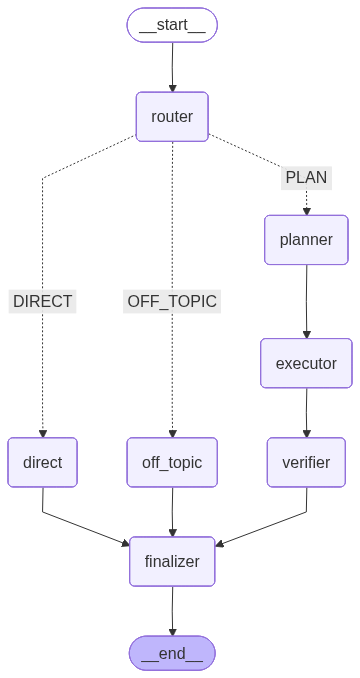
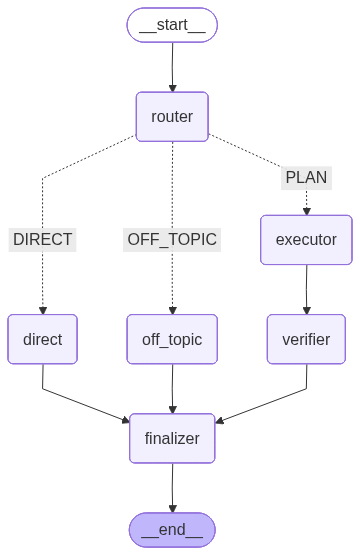
switched to claude haiku for the direct node, as it does not require either multi step work, major reasoning, or calling external tools

diff --git a/app/nodes/executor.py b/app/nodes/executor.py
@@ -1,26 +1,98 @@
 from __future__ import annotations
 
+# from langchain.agents import create_agent
+# from langchain_core.messages import ToolMessage
+# from app.infrastructure.llm import get_chat_model
+# from app.tools.tools import TRAVEL_TOOLS
+
+# EXECUTOR_SYSTEM = """
+# You are an execution agent for a travel assistant.
+# - the conversation so far (messages)
+# - a plan (list of steps)
+
+# Execute the plan in order.
+# Use tools when needed for factual data.
+# Be explicit about what came from tools vs what is reasoning.
+# When you finish, write a complete, engaging user-facing answer.
+
+# Do not show the plan unless the user asked for it.
+# """.strip()
+
+
+# # Single cached agent instance
+# _AGENT = create_agent(
+#     model=get_chat_model(),
+#     tools=TRAVEL_TOOLS,
+#     system_prompt=EXECUTOR_SYSTEM,
+# )
+
+
+# def executor_node(state: dict) -> dict:
+#     plan = state.get("plan") or []
+#     plan_block = "\n".join(str(x) for x in plan)
+
+#     exec_input = (
+#         "Execute the task for the user.\n\n"
+#         f"Plan:\n{plan_block}\n"
+#     )
+
+#     result = _AGENT.invoke(                                 
+#         {
+#             "messages": state["messages"]
+#             + [{"role": "user", "content": exec_input}]
+#         }
+#     )
+
+#     messages = result.get("messages", [])
+
+#     # Robust tool usage detection (dict + object messages)
+#     tools_used = any(
+#         (
+#             (isinstance(m, dict) and m.get("role") == "tool")
+#             or isinstance(m, ToolMessage)
+#         )
+#         for m in messages
+#     )
+
+#     # Extract final assistant message
+#     final_text = ""
+#     if messages:
+#         last = messages[-1]
+#         if isinstance(last, dict):
+#             final_text = last.get("content", "")
+#         else:
+#             final_text = getattr(last, "content", "")
+
+#     return {
+#         "execution": final_text,
+#         "tools_used": tools_used,
+#     }
+
+
+EXECUTOR_SYSTEM = """
+You are a travel assistant that plans and executes tasks as needed.
+
+Instructions:
+- Reason internally step by step.
+- Decide which actions to take without exposing your internal reasoning.
+- Use tools when factual or real-world data is required.
+- Be explicit in the final answer about what came from tools vs what was inferred.
+- Produce a complete, clear, user-facing response.
+
+Do not expose your internal chain-of-thought.
+""".strip()
+
+
 from langchain.agents import create_agent
 from langchain_core.messages import ToolMessage
 from app.infrastructure.llm import get_chat_model
 from app.tools.tools import TRAVEL_TOOLS
 
 
-EXECUTOR_SYSTEM = """
-You are an execution agent for a travel assistant.
-- the conversation so far (messages)
-- a plan (list of steps)
+# ------------------------------------------------------------------
+# ReAct-style unified executor
+# ------------------------------------------------------------------
 
-Execute the plan in order.
-Use tools when needed for factual data.
-Be explicit about what came from tools vs what is reasoning.
-When you finish, write a complete, engaging user-facing answer.
-
-Do not show the plan unless the user asked for it.
-""".strip()
-
-
-# Single cached agent instance
 _AGENT = create_agent(
     model=get_chat_model(),
     tools=TRAVEL_TOOLS,
@@ -29,24 +101,24 @@ _AGENT = create_agent(
 
 
 def executor_node(state: dict) -> dict:
-    plan = state.get("plan") or []
-    plan_block = "\n".join(str(x) for x in plan)
+    """
+    Unified planner + executor node.
 
-    exec_input = (
-        "Execute the task for the user.\n\n"
-        f"Plan:\n{plan_block}\n"
-    )
+    The agent is responsible for:
+    - deciding what steps are needed
+    - calling tools if required
+    - producing the final answer
+    """
 
-    result = _AGENT.invoke(                                 
+    result = _AGENT.invoke(
         {
             "messages": state["messages"]
-            + [{"role": "user", "content": exec_input}]
         }
     )
 
     messages = result.get("messages", [])
 
-    # Robust tool usage detection (dict + object messages)
+    # Detect whether tools were used
     tools_used = any(
         (
             (isinstance(m, dict) and m.get("role") == "tool")

diff --git a/app/graph.py b/app/graph.py
@@ -6,7 +6,7 @@ from langgraph.graph import StateGraph, START, END
 from app.config.state import State
 from app.nodes.router import router_node
 from app.nodes.direct import direct_node
-from app.nodes.planner import planner_node
+# from app.nodes.planner import planner_node
 from app.nodes.executor import executor_node
 from app.nodes.verifier import verifier_node
 from app.nodes.finalizer import finalizer_node
@@ -19,7 +19,7 @@ def build_graph():
     builder.add_node("router", router_node)
     builder.add_node("direct", direct_node)
     builder.add_node("off_topic", off_topic_node)
-    builder.add_node("planner", planner_node)
+    # builder.add_node("planner", planner_node)
     builder.add_node("executor", executor_node)
     builder.add_node("verifier", verifier_node)
     builder.add_node("finalizer", finalizer_node)
@@ -27,14 +27,15 @@ def build_graph():
     builder.add_edge(START, "router")
 
     def route_after_router(state: State) -> str:
-        return state["route"] or "DIRECT"
+        return state["route"] or "PLAN"
 
     builder.add_conditional_edges(
         "router",
         route_after_router,
         {
             "DIRECT": "direct",
-            "PLAN": "planner",
+            # "PLAN": "planner",
+            "PLAN": "executor",
             "OFF_TOPIC": "off_topic"
         },
     )
@@ -43,7 +44,7 @@ def build_graph():
 
     builder.add_edge("direct", "finalizer")
 
-    builder.add_edge("planner", "executor")
+    # builder.add_edge("planner", "executor")
     builder.add_edge("executor", "verifier")
     builder.add_edge("verifier", "finalizer")
 

diff --git a/app/nodes/direct.py b/app/nodes/direct.py
@@ -1,6 +1,6 @@
 from __future__ import annotations
 
-from app.infrastructure.llm import get_chat_model
+from app.infrastructure.llm import get_lightweight_chat_model
 
 DIRECT_SYSTEM = """
 You are a professional travel assistant.
@@ -13,7 +13,7 @@ Special rule:
 
 
 def direct_node(state: dict) -> dict:
-    model = get_chat_model()
+    model = get_lightweight_chat_model()
     messages = [{"role": "system", "content": DIRECT_SYSTEM}] + state["messages"]
     answer = model.invoke(messages).content
 
